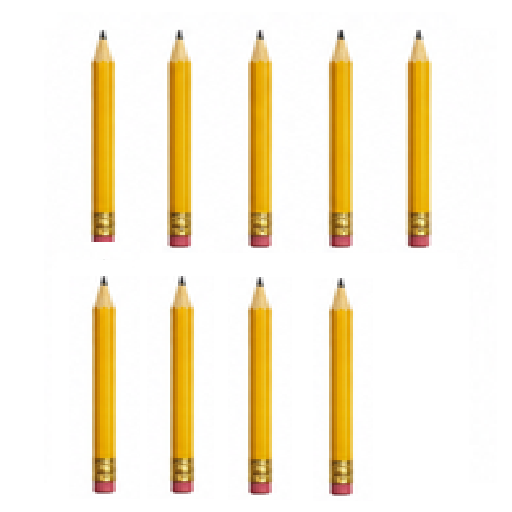
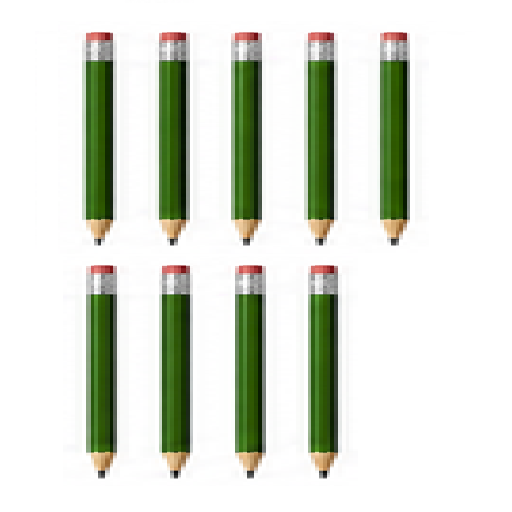
かぞえかたゲームの個と本のイラストとデータを更新

diff --git a/data/kazoekata/hon-data.js b/data/kazoekata/hon-data.js
@@ -3,11 +3,11 @@ export default [
         id: "ippon",
         number: 1,
         counter: "ほん",
-        questionSpeech: "なんぼん",
+        questionSpeech: "ロープが なんぼん ありますか？",
         reading: "いっぽん",
         speech: "いっぽん",
-        item: "えんぴつ",
-        img: "enpitsu_1.png",
+        item: "ロープ",
+        img: "rope_1.png",
 
         choices: [
             "いっぽん",
@@ -20,11 +20,11 @@ export default [
         id: "nihon",
         number: 2,
         counter: "ほん",
-        questionSpeech: "なんぼん",
+        questionSpeech: "ロープが なんぼん ありますか？",
         reading: "にほん",
         speech: "にほん",
-        item: "えんぴつ",
-        img: "enpitsu_2.png",
+        item: "ロープ",
+        img: "rope_2.png",
 
         choices: [
             "にほん",
@@ -37,11 +37,11 @@ export default [
         id: "sanbon",
         number: 3,
         counter: "ほん",
-        questionSpeech: "なんぼん",
+        questionSpeech: "きが なんぼん ありますか？",
         reading: "さんぼん",
         speech: "さんぼん",
-        item: "えんぴつ",
-        img: "enpitsu_3.png",
+        item: "き",
+        img: "tree_3.png",
 
         choices: [
             "さんぼん",
@@ -54,11 +54,11 @@ export default [
         id: "yonhon",
         number: 4,
         counter: "ほん",
-        questionSpeech: "なんぼん",
+        questionSpeech: "きが なんぼん ありますか？",
         reading: "よんほん",
         speech: "よんほん",
-        item: "えんぴつ",
-        img: "enpitsu_4.png",
+        item: "き",
+        img: "tree_4.png",
 
         choices: [
             "よんほん",
@@ -71,11 +71,11 @@ export default [
         id: "gohon",
         number: 5,
         counter: "ほん",
-        questionSpeech: "なんぼん",
+        questionSpeech: "バットが なんぼん ありますか？",
         reading: "ごほん",
         speech: "ごほん",
-        item: "えんぴつ",
-        img: "enpitsu_5.png",
+        item: "バット",
+        img: "bat_5.png",
 
         choices: [
             "ごほん",
@@ -88,11 +88,11 @@ export default [
         id: "roppon",
         number: 6,
         counter: "ほん",
-        questionSpeech: "なんぼん",
+        questionSpeech: "バットが なんぼん ありますか？",
         reading: "ろっぽん",
         speech: "ろっぽん",
-        item: "えんぴつ",
-        img: "enpitsu_6.png",
+        item: "バット",
+        img: "bat_6.png",
 
         choices: [
             "ろっぽん",
@@ -105,11 +105,11 @@ export default [
         id: "nanahon",
         number: 7,
         counter: "ほん",
-        questionSpeech: "なんぼん",
+        questionSpeech: "バナナが なんぼん ありますか？",
         reading: "ななほん",
         speech: "ななほん",
-        item: "えんぴつ",
-        img: "enpitsu_7.png",
+        item: "バナナ",
+        img: "banana_7.png",
 
         choices: [
             "ななほん",
@@ -122,11 +122,11 @@ export default [
         id: "happon",
         number: 8,
         counter: "ほん",
-        questionSpeech: "なんぼん",
+        questionSpeech: "バナナが なんぼん ありますか？",
         reading: "はっぽん",
         speech: "はっぽん",
-        item: "えんぴつ",
-        img: "enpitsu_8.png",
+        item: "バナナ",
+        img: "banana_8.png",
 
         choices: [
             "はっぽん",
@@ -139,7 +139,7 @@ export default [
         id: "kyuuhon",
         number: 9,
         counter: "ほん",
-        questionSpeech: "なんぼん",
+        questionSpeech: "えんぴつが なんぼん ありますか？",
         reading: "きゅうほん",
         speech: "きゅうほん",
         item: "えんぴつ",
@@ -156,7 +156,7 @@ export default [
         id: "juppon",
         number: 10,
         counter: "ほん",
-        questionSpeech: "なんぼん",
+        questionSpeech: "えんぴつが なんぼん ありますか？",
         reading: "じゅっぽん",
         speech: "じゅっぽん",
         item: "えんぴつ",

diff --git a/data/kazoekata/ko-data.js b/data/kazoekata/ko-data.js
@@ -3,7 +3,7 @@ export default [
         id: "ikko",
         number: 1,
         counter: "こ",
-        questionSpeech: "なんこ",
+        questionSpeech: "りんごが なんこ ありますか？",
         reading: "いっこ",
         speech: "いっこ",
         item: "りんご",
@@ -20,7 +20,7 @@ export default [
         id: "niko",
         number: 2,
         counter: "こ",
-        questionSpeech: "なんこ",
+        questionSpeech: "りんごが なんこ ありますか？",
         reading: "にこ",
         speech: "にこ",
         item: "りんご",
@@ -37,11 +37,11 @@ export default [
         id: "sanko",
         number: 3,
         counter: "こ",
-        questionSpeech: "なんこ",
+        questionSpeech: "ボールが なんこ ありますか？",
         reading: "さんこ",
         speech: "さんこ",
-        item: "りんご",
-        img: "ringo_3.png",
+        item: "ボール",
+        img: "ball_3.png",
 
         choices: [
             "さんこ",
@@ -54,11 +54,11 @@ export default [
         id: "yonko",
         number: 4,
         counter: "こ",
-        questionSpeech: "なんこ",
+        questionSpeech: "ボールが なんこ ありますか？",
         reading: "よんこ",
         speech: "よんこ",
-        item: "りんご",
-        img: "ringo_4.png",
+        item: "ボール",
+        img: "ball_4.png",
 
         choices: [
             "よんこ",
@@ -71,11 +71,11 @@ export default [
         id: "goko",
         number: 5,
         counter: "こ",
-        questionSpeech: "なんこ",
+        questionSpeech: "たまごが なんこ ありますか？",
         reading: "ごこ",
         speech: "ごこ",
-        item: "りんご",
-        img: "ringo_5.png",
+        item: "たまご",
+        img: "egg_5.png",
 
         choices: [
             "ごこ",
@@ -88,11 +88,11 @@ export default [
         id: "rokko",
         number: 6,
         counter: "こ",
-        questionSpeech: "なんこ",
+        questionSpeech: "たまごが なんこ ありますか？",
         reading: "ろっこ",
         speech: "ろっこ",
-        item: "りんご",
-        img: "ringo_6.png",
+        item: "たまご",
+        img: "egg_6.png",
 
         choices: [
             "ろっこ",
@@ -105,11 +105,11 @@ export default [
         id: "nanako",
         number: 7,
         counter: "こ",
-        questionSpeech: "なんこ",
+        questionSpeech: "みかんが なんこ ありますか？",
         reading: "ななこ",
         speech: "ななこ",
-        item: "りんご",
-        img: "ringo_7.png",
+        item: "みかん",
+        img: "mikan_7.png",
 
         choices: [
             "ななこ",
@@ -122,11 +122,11 @@ export default [
         id: "hakko",
         number: 8,
         counter: "こ",
-        questionSpeech: "なんこ",
+        questionSpeech: "みかんが なんこ ありますか？",
         reading: "はっこ",
         speech: "はっこ",
-        item: "りんご",
-        img: "ringo_8.png",
+        item: "みかん",
+        img: "mikan_8.png",
 
         choices: [
             "はっこ",
@@ -139,11 +139,11 @@ export default [
         id: "kyuuko",
         number: 9,
         counter: "こ",
-        questionSpeech: "なんこ",
+        questionSpeech: "けしゴムが なんこ ありますか？",
         reading: "きゅうこ",
         speech: "きゅうこ",
-        item: "りんご",
-        img: "ringo_9.png",
+        item: "けしゴム",
+        img: "eraser_9.png",
 
         choices: [
             "きゅうこ",
@@ -156,11 +156,11 @@ export default [
         id: "jukko",
         number: 10,
         counter: "こ",
-        questionSpeech: "なんこ",
+        questionSpeech: "けしゴムが なんこ ありますか？",
         reading: "じゅっこ",
         speech: "じゅっこ",
-        item: "りんご",
-        img: "ringo_10.png",
+        item: "けしゴム",
+        img: "eraser_10.png",
 
         choices: [
             "じゅっこ",
